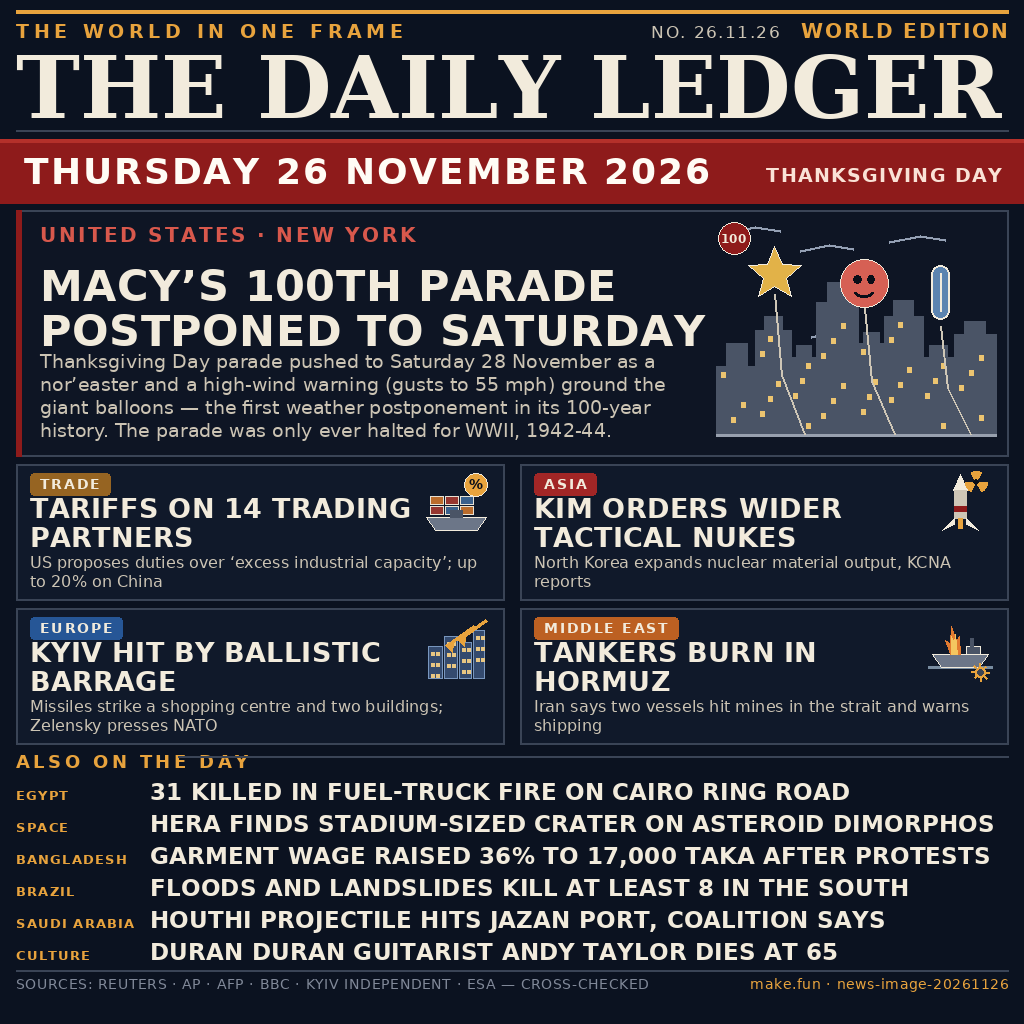
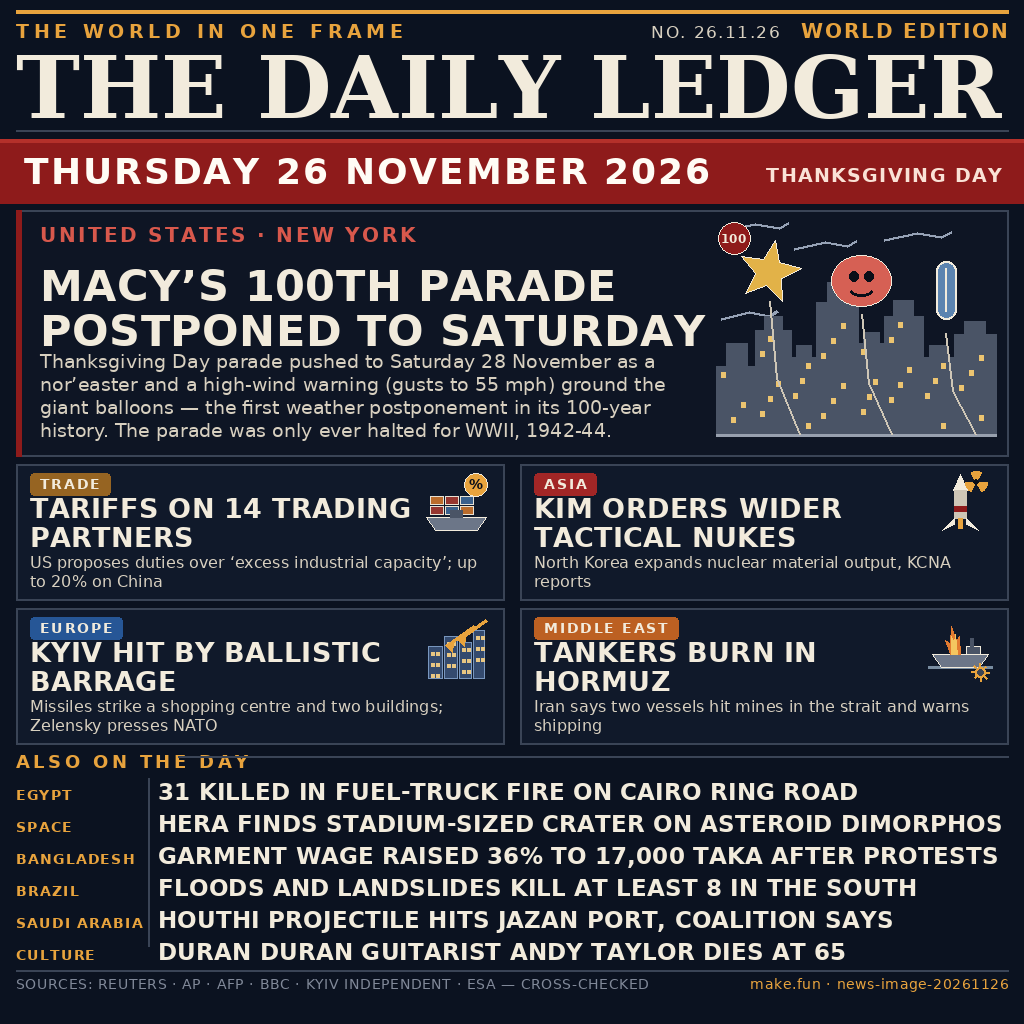
page: bigger windblown balloons, brighter decks, ruled brief labels

diff --git a/generator.py b/generator.py
@@ -23,7 +23,7 @@ SANS = os.path.join(FONT_DIR, "DejaVuSans.ttf")
 # Palette: deep navy ground, cream type, one crimson band, amber accents.
 BG = (11, 18, 32)
 CREAM = (242, 235, 220)
-CREAM_SOFT = (204, 196, 180)
+CREAM_SOFT = (216, 208, 192)
 DIM = (128, 136, 152)
 RULE = (58, 68, 86)
 CRIMSON = (142, 27, 27)
@@ -142,14 +142,15 @@ def draw_date_band(d, top, height=64):
 def _balloon_star(d, cx, cy, r):
     pts = []
     for i in range(10):
-        ang = -math.pi / 2 + i * math.pi / 5
+        ang = -math.pi / 2 + i * math.pi / 5 + 0.20
         rad = r if i % 2 == 0 else r * 0.44
         pts.append((cx + rad * math.cos(ang), cy + rad * math.sin(ang)))
     d.polygon(pts, fill=(226, 178, 72), outline=CREAM)
 
 
 def _balloon_head(d, cx, cy, r):
-    d.ellipse([cx - r, cy - r, cx + r, cy + r], fill=(214, 96, 84), outline=CREAM)
+    d.ellipse([cx - r * 1.08, cy - r * 0.94, cx + r * 1.08, cy + r * 0.94],
+              fill=(214, 96, 84), outline=CREAM)
     d.ellipse([cx - r * 0.44, cy - r * 0.34, cx - r * 0.12, cy + r * 0.00], fill=INK)
     d.ellipse([cx + r * 0.12, cy - r * 0.34, cx + r * 0.44, cy + r * 0.00], fill=INK)
     d.arc([cx - r * 0.44, cy + r * 0.04, cx + r * 0.44, cy + r * 0.58], 15, 165, fill=INK, width=3)
@@ -175,12 +176,14 @@ def draw_hero_scene(d, box):
     h = y1 - y0
     ground = y1 - 12
 
-    for fx, fy, fl in ((0.03, 0.06, 0.20), (0.30, 0.14, 0.19),
-                       (0.62, 0.10, 0.20), (0.34, 0.52, 0.17)):
+    for fx, fy, fl in ((0.02, 0.05, 0.24), (0.28, 0.13, 0.22),
+                       (0.60, 0.09, 0.24), (0.02, 0.44, 0.20)):
         ax = x0 + fx * w
         ay = y0 + fy * h
-        d.line([(ax, ay), (ax + fl * w * 0.55, ay - 6), (ax + fl * w, ay - 2)],
-               fill=(148, 160, 180), width=3)
+        d.line([(ax, ay), (ax + fl * w * 0.5, ay - 7), (ax + fl * w * 0.86, ay - 3)],
+               fill=(150, 162, 182), width=3)
+        d.line([(ax + fl * w * 0.86, ay - 3), (ax + fl * w, ay - 8)],
+               fill=(150, 162, 182), width=3)
 
     blocks = (
         (0.00, 0.15, 0.30, 0.10),
@@ -213,13 +216,13 @@ def draw_hero_scene(d, box):
 
     d.rectangle([x0, ground, x1, ground + 2], fill=(152, 160, 174))
 
-    _tether(d, (x0 + 0.21 * w, y0 + 0.33 * h), ground)
-    _tether(d, (x0 + 0.53 * w, y0 + 0.39 * h), ground)
-    _tether(d, (x0 + 0.80 * w, y0 + 0.47 * h), ground)
+    _tether(d, (x0 + 0.19 * w, y0 + 0.36 * h), ground)
+    _tether(d, (x0 + 0.52 * w, y0 + 0.42 * h), ground)
+    _tether(d, (x0 + 0.82 * w, y0 + 0.50 * h), ground)
 
-    _balloon_star(d, x0 + 0.21 * w, y0 + 0.24 * h, 0.100 * w)
-    _balloon_head(d, x0 + 0.53 * w, y0 + 0.28 * h, 0.086 * w)
-    _balloon_tube(d, x0 + 0.80 * w, y0 + 0.32 * h, 0.064 * w, 0.24 * h)
+    _balloon_star(d, x0 + 0.19 * w, y0 + 0.23 * h, 0.115 * w)
+    _balloon_head(d, x0 + 0.52 * w, y0 + 0.27 * h, 0.098 * w)
+    _balloon_tube(d, x0 + 0.82 * w, y0 + 0.31 * h, 0.072 * w, 0.26 * h)
 
     bx, by = x0 + 2, y0 + 2
     d.ellipse([bx, by, bx + 32, by + 32], fill=CRIMSON, outline=CREAM)
@@ -403,12 +406,13 @@ def draw_briefs(d, top):
     tracked(d, (16, top), "ALSO ON THE DAY", font(SANS_BOLD, 18), AMBER, 3.4)
     d.rectangle([178, top - 12, 1008, top - 11], fill=RULE)
 
-    label_f = font(SANS_BOLD, 13)
+    label_f = font(SANS_BOLD, 14)
     body_f = font(SANS_BOLD, 23)
+    d.rectangle([148, top + 10, 149, top + 10 + 5 * 32 + 8], fill=RULE)
     y = top + 32
     for label, headline in BRIEFS:
         tracked(d, (16, y), label, label_f, AMBER, 1.2)
-        tracked(d, (150, y), headline, body_f, CREAM, 0.2)
+        tracked(d, (158, y), headline, body_f, CREAM, 0.2)
         y += 32
     return y
 
@@ -455,8 +459,10 @@ def audit():
             rows.append(("card %s d%d" % (tag, i + 1), tw(line, body), CARD_W - 28))
 
     body = font(SANS_BOLD, 23)
-    for label, headline in BRIEFS:
-        rows.append(("brief " + label, tw(headline, body, 0.2), 1008 - 150))
+    label = font(SANS_BOLD, 14)
+    for tag, headline in BRIEFS:
+        rows.append(("brief " + tag, tw(headline, body, 0.2), 1008 - 158))
+        rows.append(("label " + tag, 16 + tw(tag, label, 1.2), 146))
     return rows
 
 
